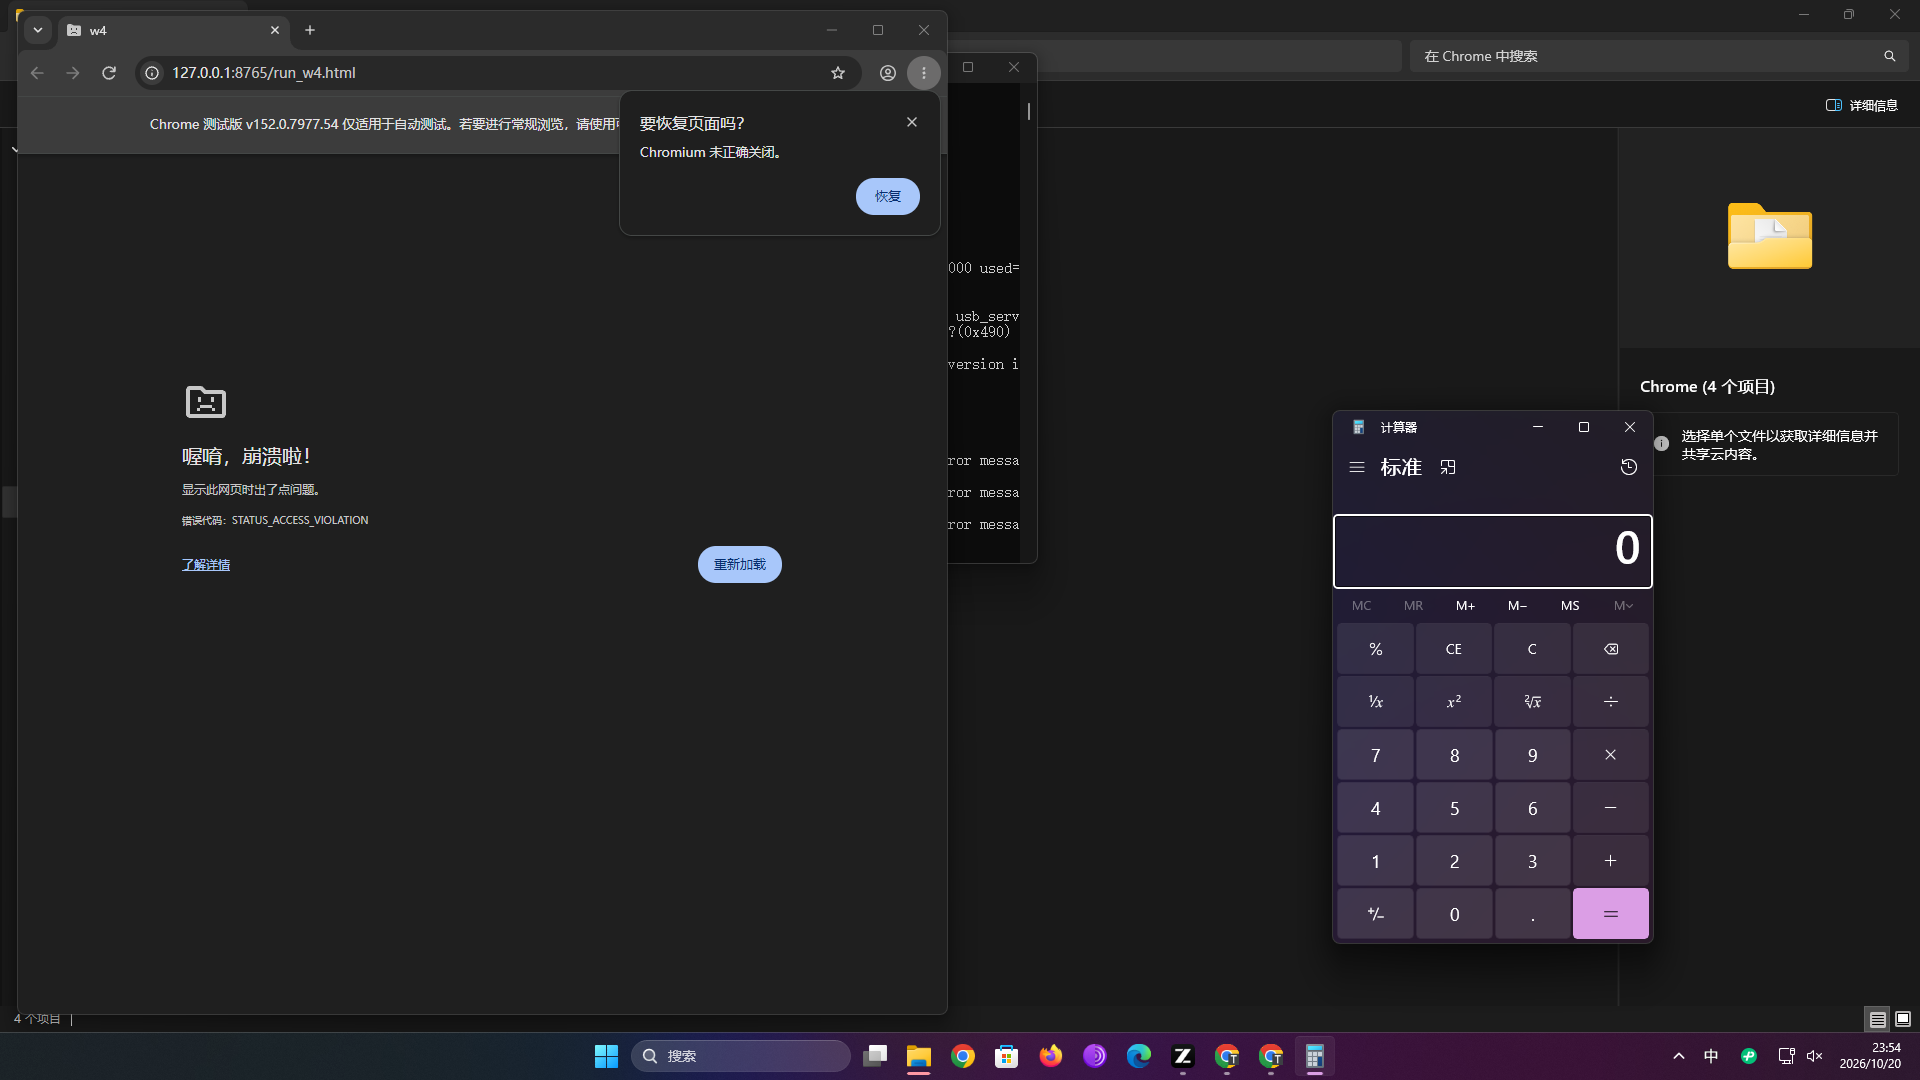
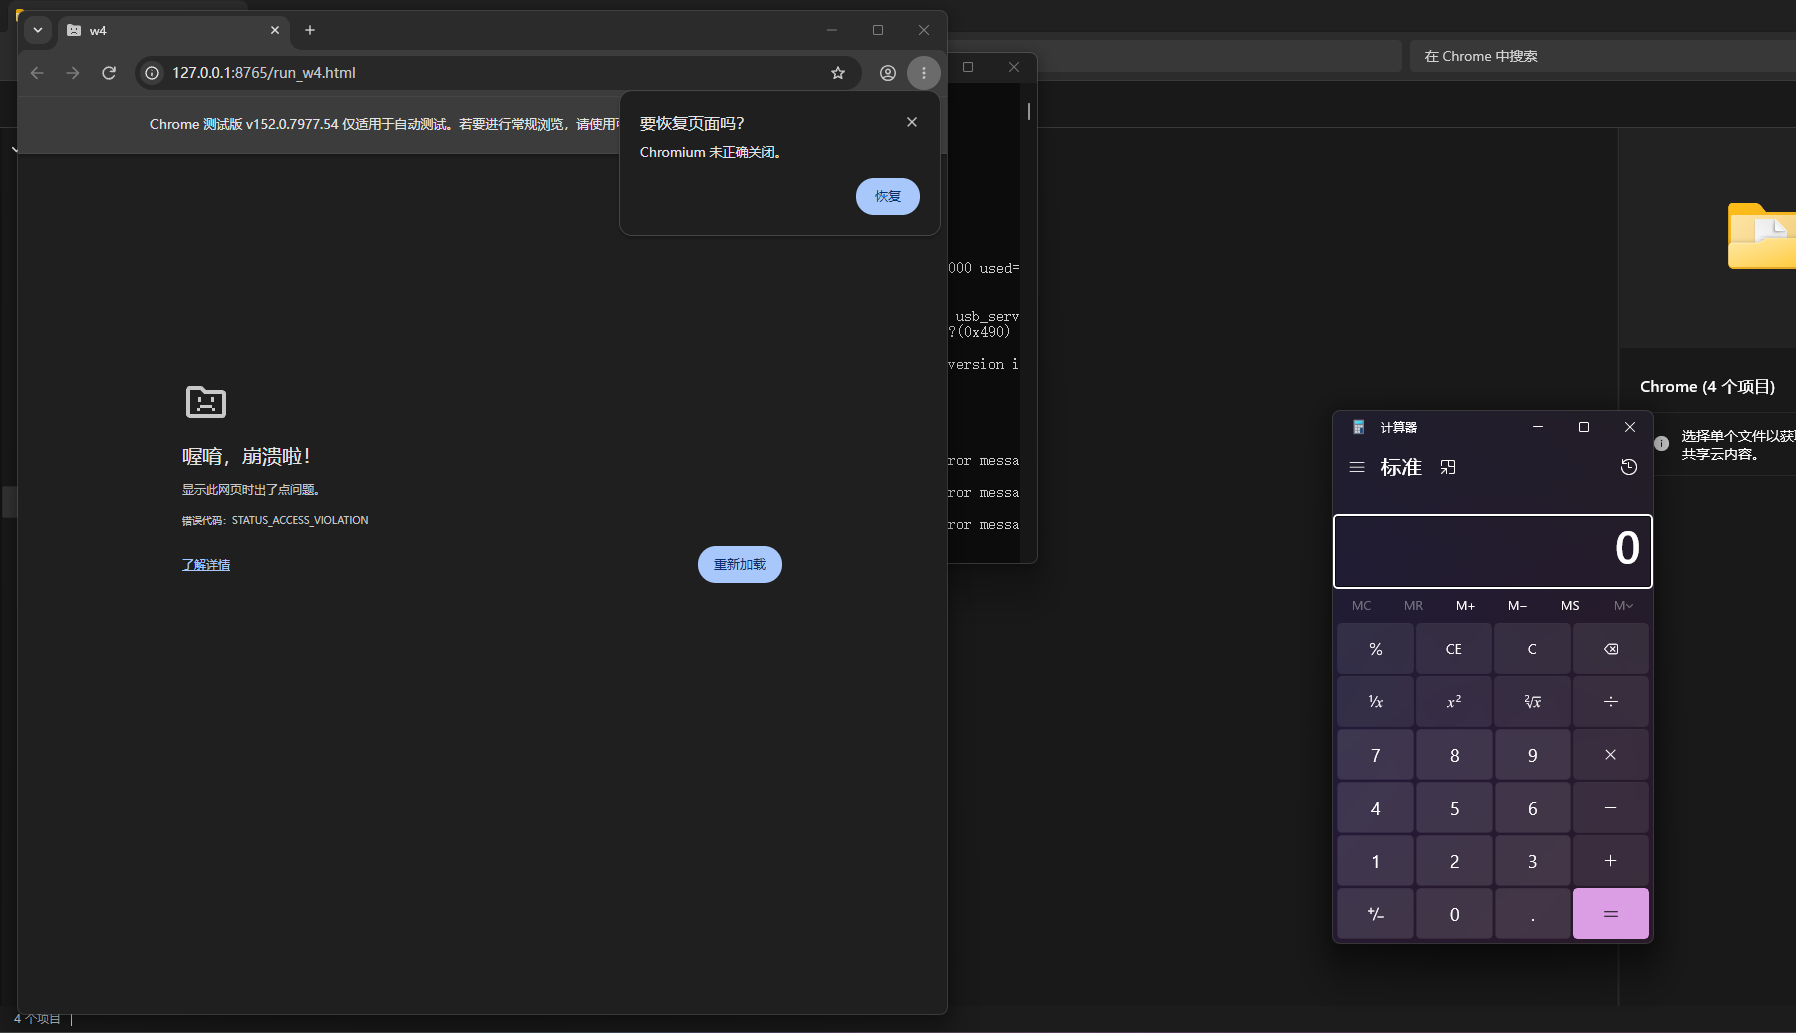
fix blog

diff --git a/blog.md b/blog.md
@@ -5,7 +5,7 @@
 > **性质**：授权隔离研究环境下的公开 n-day 复现与武器化研究，所有目标均为本地测试构建，不涉及任何真实第三方系统
 > **最终形态**：受害者只需访问一个网页，约 2 分钟内计算器从**非沙箱的 crashpad-handler 进程**中弹出；stage-2 由 payload 用系统 curl 从页面同源服务器自动拉取——目标机零预置、全链零硬编码路径
 
-![一键包运行结果：calc 与 notepad 从非沙箱 handler 弹出](evidence/POC_ONECLICK_WIN.png)
+![一键包运行结果：calc 与 notepad 从非沙箱 handler 弹出](assert/POC_ONECLICK_WIN.png)
 
 ---
 
@@ -435,7 +435,7 @@ stage-2 落地通道的选择是实测驱动的，不是靠"常识"（[WEAPONIZE
 
 全链取胜现场：渲染器按计划崩溃，calc 与 notepad 从**非沙箱的 crashpad-handler** 进程中弹出——OS 沙箱逃逸达成。
 
-![全链取胜：calc 与 notepad 从非沙箱 handler 弹出](evidence/POC_FULLCHAIN_WIN_REPRO_20261020.png)
+![全链取胜：calc 与 notepad 从非沙箱 handler 弹出](assert/POC_FULLCHAIN_WIN_REPRO_20261020.png)
 
 ---
 
